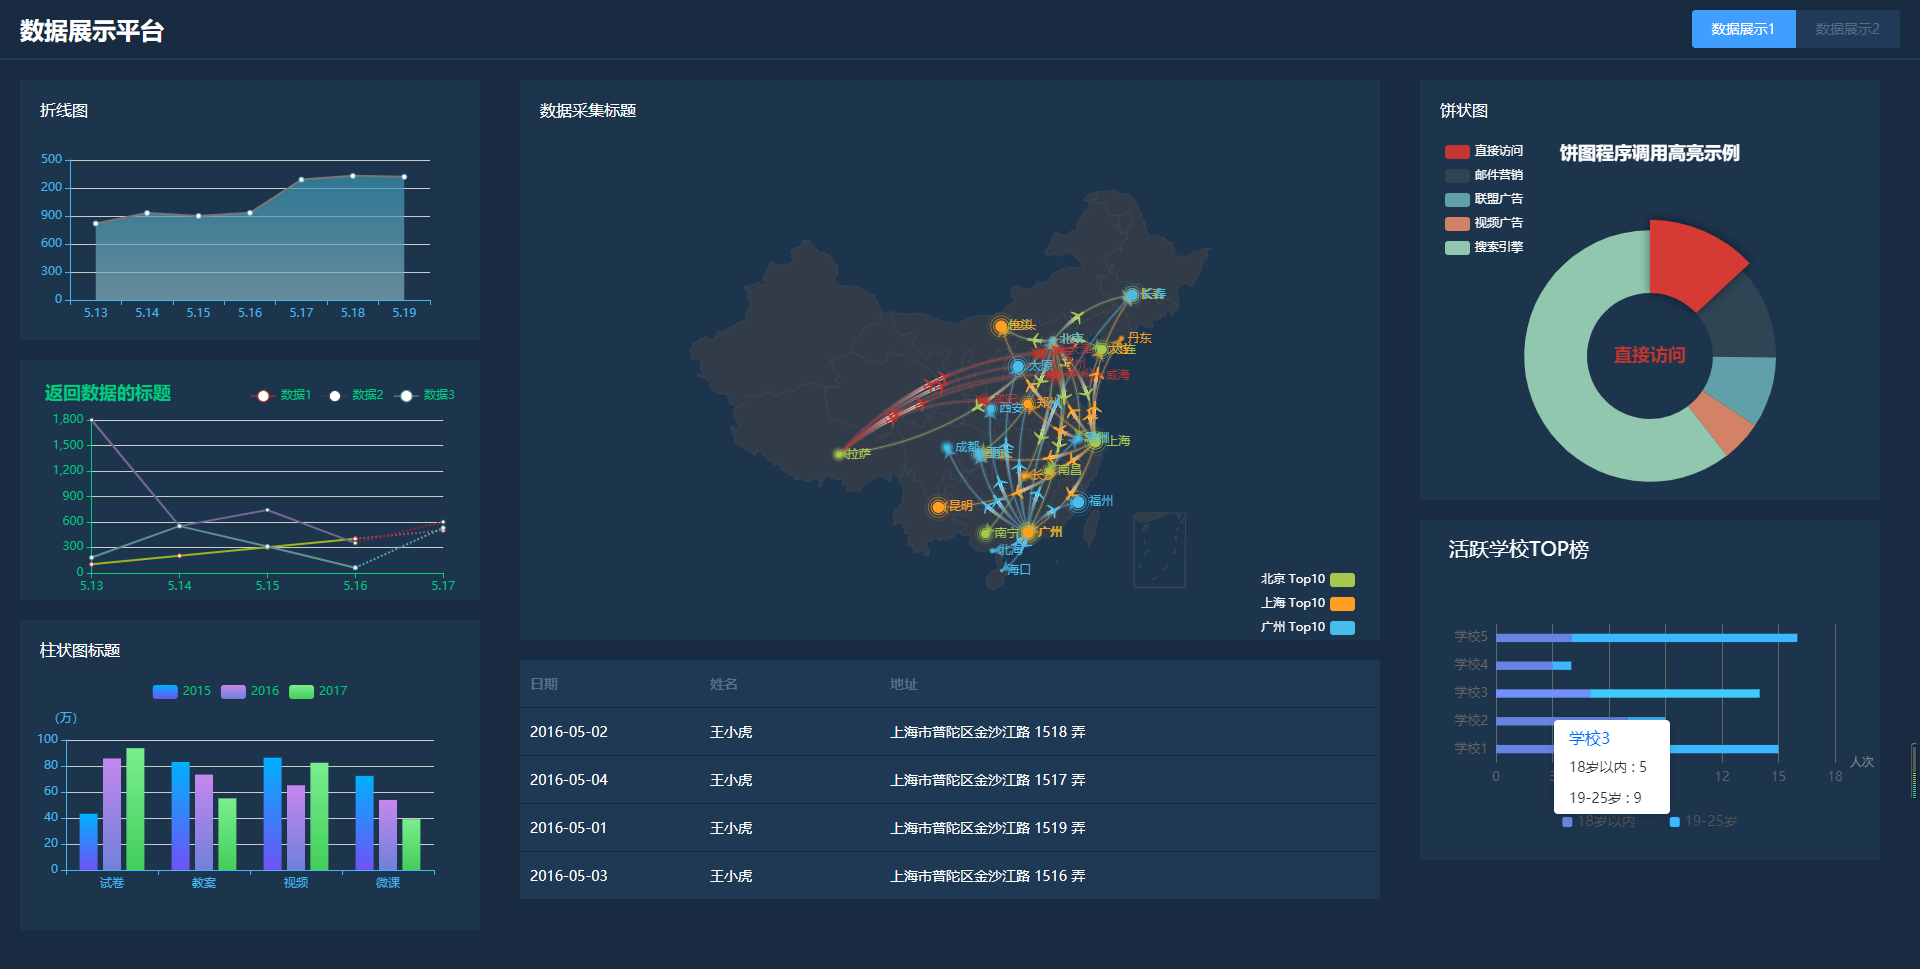
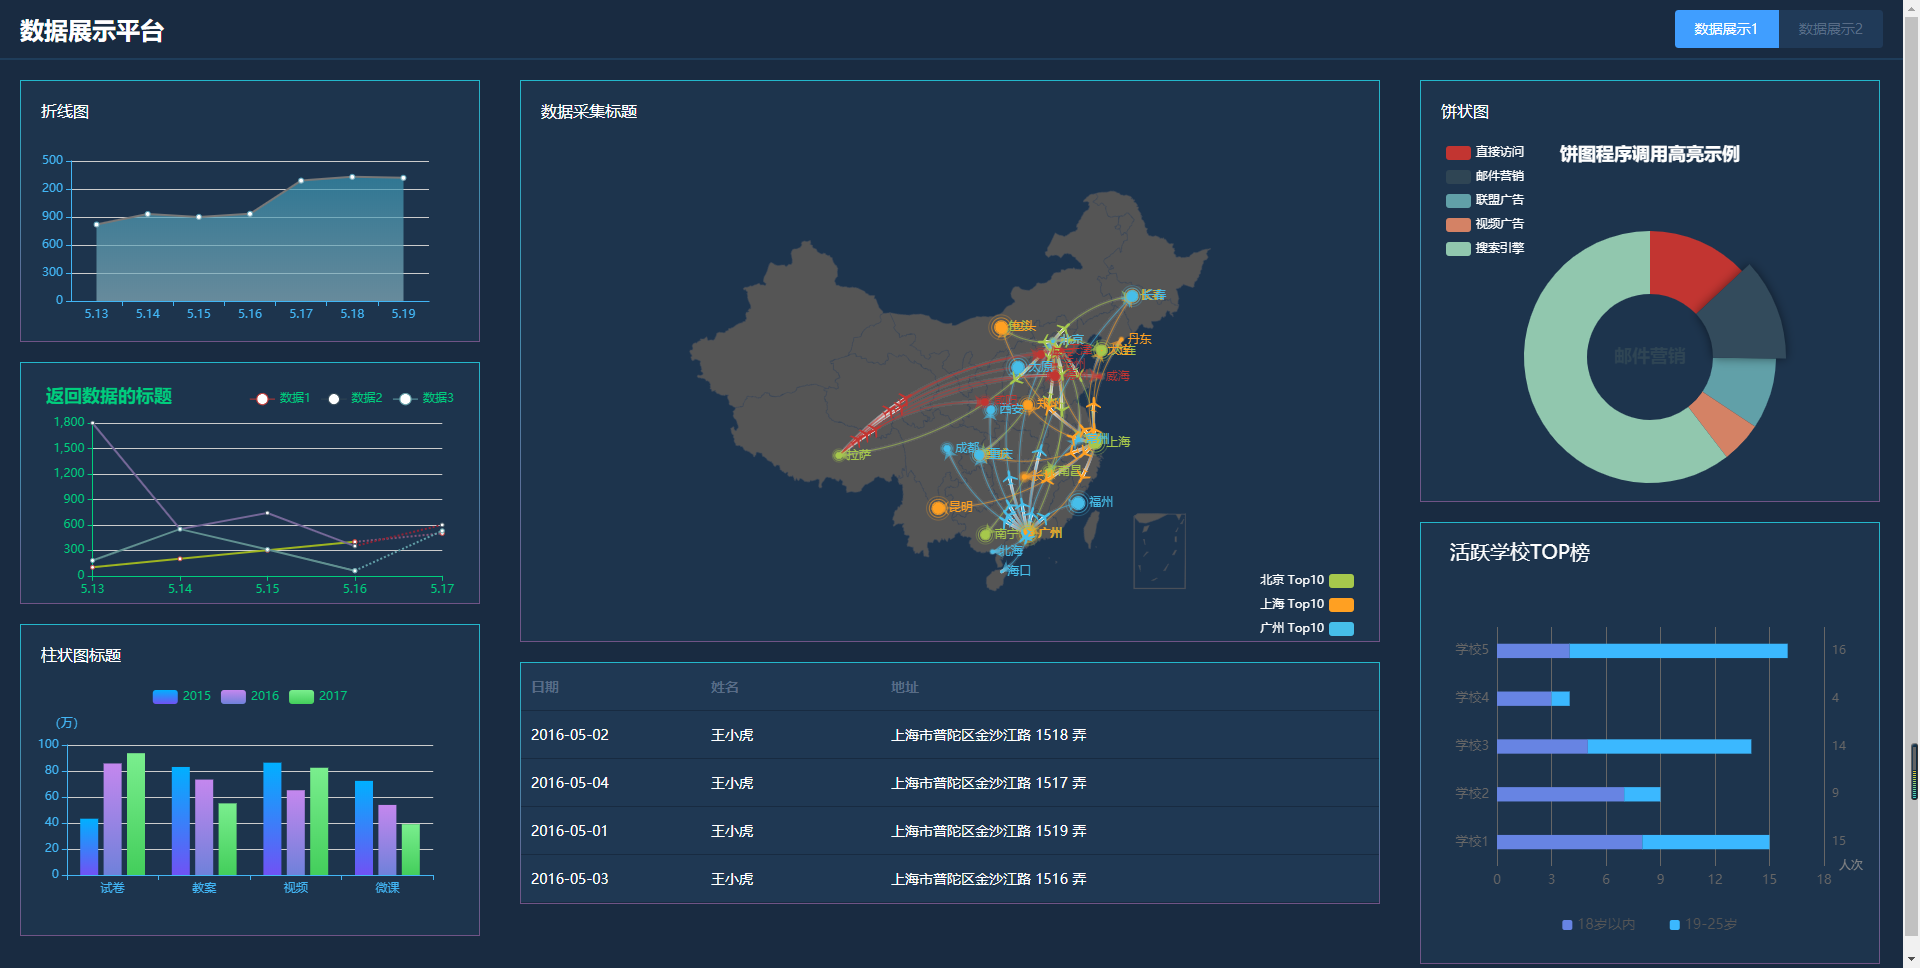
增加边框渐变色&&修改地图背景色&&横向柱状图展示数据

diff --git a/src/views/dataIndex/components/barChart2.vue b/src/views/dataIndex/components/barChart2.vue
@@ -46,7 +46,7 @@ export default {
           top: 104,
           left: 76,
           bottom: 97,
-          right: 45
+          right: 55
         },
         legend: {
           data: ['18岁以内', '19-25岁'],
@@ -118,7 +118,7 @@ export default {
             color: '#666'
           }
         },
-        yAxis: {
+        yAxis: [{
           type: 'category',
           splitLine: {
             show: false
@@ -134,7 +134,26 @@ export default {
             color: '#666'
           },
           data: ['学校1', '学校2', '学校3', '学校4', '学校5']
-        },
+        },{
+          show: true,
+          inverse: true,
+          data: ['16','4','14','9','15'],
+          axisLabel: {
+            textStyle: {
+              fontSize:12,
+              color: '#666',
+            },
+          },
+          axisLine: {
+            show: false
+          },
+          splitLine: {
+            show: false
+          },
+          axisTick: {
+            show: false
+          },
+        }],
         series: [{
           name: '18岁以内',
           type: 'bar',
@@ -146,7 +165,21 @@ export default {
           type: 'bar',
           stack: 'a',
           barWidth: '30%',
-          data: ['7', '2', '9', '1', '12']
+          data: ['7', '2', '9', '1', '12'],
+          // label: {
+          //   normal: {
+          //     show: true,
+          //     position: 'right',
+          //     // distance: 10,
+          //     formatter: function(param) {
+          //       return param.value
+          //     },
+          //     textStyle: {
+          //       color: '#000000',
+          //       fontSize: '16'
+          //     }
+          //   }
+          // }
         }]
       }
       myChart.setOption(options)
@@ -157,6 +190,6 @@ export default {
 <style lang="scss" scoped>
 #barChart2{
   width: 100%;
-  height: 340px;
+  height: 440px;
 }
 </style>

diff --git a/src/views/dataIndex/components/chinaMap.vue b/src/views/dataIndex/components/chinaMap.vue
@@ -213,11 +213,11 @@ export default {
           roam: true,
           itemStyle: {
             normal: {
-              areaColor: '#323c48',
-              borderColor: '#404a59'
+              areaColor: '#555555', //背景颜色
+              borderColor: '#404a59'  //分割线颜色
             },
             emphasis: {
-              areaColor: '#2a333d'
+              areaColor: '#2a333d'  //高亮区域背景色
             }
           }
         },

diff --git a/src/views/dataIndex/index.vue b/src/views/dataIndex/index.vue
@@ -41,6 +41,9 @@ export default {
   .chartComponent{
     margin: 20px;
     background: #1d344d;
+    border:1px transparent solid;
+    border-image:linear-gradient(to top,#705486,#23b7cb) 1 10;
+    border-radius: 5px;
     .el-header{
       text-align: left;
     }
